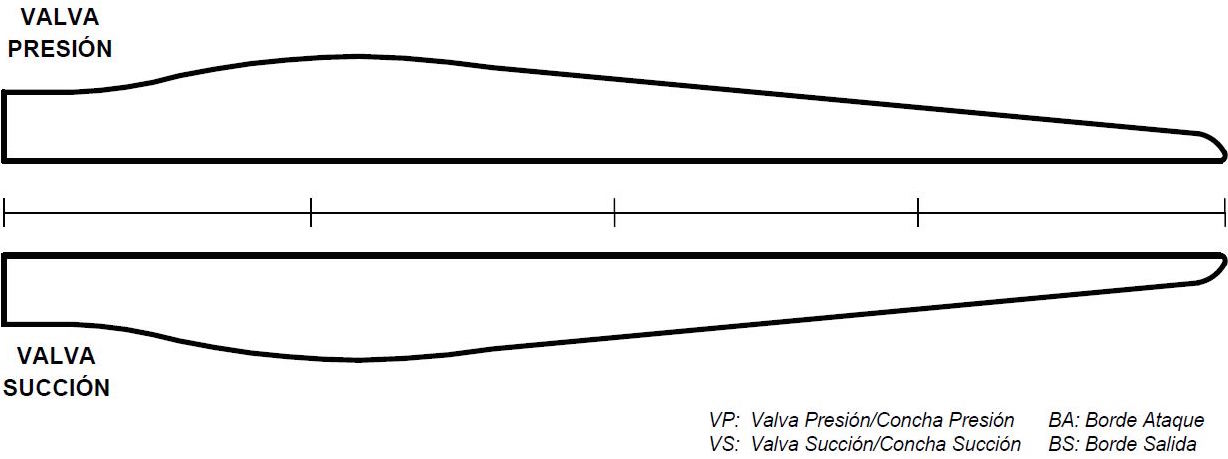
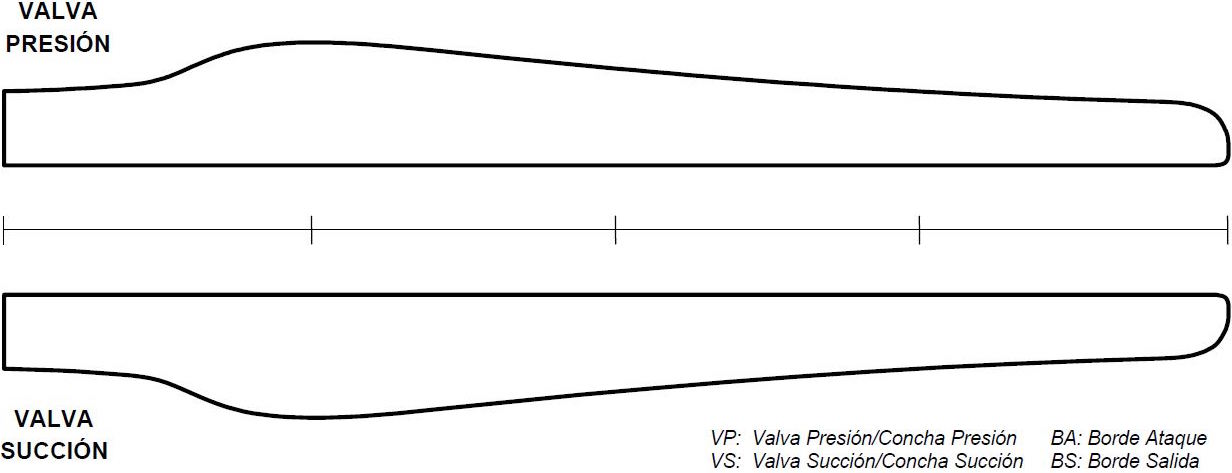
improve diagram damages drawing 1

diff --git a/src/AppBundle/Service/AuditPdfBuilderService.php b/src/AppBundle/Service/AuditPdfBuilderService.php
@@ -191,34 +191,34 @@ class AuditPdfBuilderService
             $x1 = $this->amdb->getX1();
             $y1 = $this->amdb->getY1();
             $x2 = $this->amdb->getX2();
-//            $y2 = $this->amdb->getY2();
+            $y2 = $this->amdb->getY2();
 //            $bladeGap = 40;
 //            $gap = $x2 - $x1;
 
             $pdf->Image($this->tha->getUrl('/bundles/app/images/blade_diagrams/blade_blueprint_1.jpg'), $x1, $y1, ($x2 - $x1), null);
 //            $pdf->Rect($x1, $y1, ($x2 - $x1), ($y2 - $y1));
 
-//            $xQuarter1 = $this->amdb->getXQ1();
+            $xQuarter1 = $this->amdb->getXQ1();
             $xQuarter2 = $this->amdb->getXQ2();
             $xQuarter3 = $this->amdb->getXQ3();
             $xQuarter4 = $this->amdb->getXQ4();
             $xQuarter5 = $this->amdb->getXQ5();
-//            $pdf->Line($xQuarter1, $y1, $xQuarter1, $y1 + ($y2 - $y1));
-//            $pdf->Line($xQuarter2, $y1, $xQuarter2, $y1 + ($y2 - $y1));
-//            $pdf->Line($xQuarter3, $y1, $xQuarter3, $y1 + ($y2 - $y1));
-//            $pdf->Line($xQuarter4, $y1, $xQuarter4, $y1 + ($y2 - $y1));
-//            $pdf->Line($xQuarter5, $y1, $xQuarter5, $y1 + ($y2 - $y1));
+            $pdf->Line($xQuarter1, $y1, $xQuarter1, $y1 + ($y2 - $y1));
+            $pdf->Line($xQuarter2, $y1, $xQuarter2, $y1 + ($y2 - $y1));
+            $pdf->Line($xQuarter3, $y1, $xQuarter3, $y1 + ($y2 - $y1));
+            $pdf->Line($xQuarter4, $y1, $xQuarter4, $y1 + ($y2 - $y1));
+            $pdf->Line($xQuarter5, $y1, $xQuarter5, $y1 + ($y2 - $y1));
 
             $yMiddle   = $this->amdb->getYMiddle();
-//            $yQuarter1 = $this->amdb->getYQ1();
-//            $yQuarter2 = $this->amdb->getYQ2();
-//            $yQuarter3 = $this->amdb->getYQ3();
-//            $yQuarter4 = $this->amdb->getYQ4();
-//            $pdf->Line($x1, $yQuarter1, $x2, $yQuarter1);
-//            $pdf->Line($x1, $yQuarter2, $x2, $yQuarter2);
-//            $pdf->Line($x1, $yMiddle,   $x2, $yMiddle);
-//            $pdf->Line($x1, $yQuarter3, $x2, $yQuarter3);
-//            $pdf->Line($x1, $yQuarter4, $x2, $yQuarter4);
+            $yQuarter1 = $this->amdb->getYQ1();
+            $yQuarter2 = $this->amdb->getYQ2();
+            $yQuarter3 = $this->amdb->getYQ3();
+            $yQuarter4 = $this->amdb->getYQ4();
+            $pdf->Line($x1, $yQuarter1, $x2, $yQuarter1);
+            $pdf->Line($x1, $yQuarter2, $x2, $yQuarter2);
+            $pdf->Line($x1, $yMiddle,   $x2, $yMiddle);
+            $pdf->Line($x1, $yQuarter3, $x2, $yQuarter3);
+            $pdf->Line($x1, $yQuarter4, $x2, $yQuarter4);
 
 //            $pdf->Rect($x1 + 3.5, $y1, ($x2 - $x1 - 4.5), ($y2 - $y1));
 //            $pdf->Rect($x1 + 44.5, $y1, ($x2 - $x1), ($y2 - $y1));
@@ -234,14 +234,17 @@ class AuditPdfBuilderService
             foreach ($bladeDamages as $sKey => $bladeDamage) {
                 // MultiCell($w, $h, $txt, $border=0, $align='J', $fill=0, $ln=1, $x='', $y='', $reseth=true, $stretch=0, $ishtml=false, $autopadding=true, $maxh=0)
                 $pdf->setBackgroundHexColor($bladeDamage->getDamageCategory()->getColour());
+                
                 if ($bladeDamage->getPosition() == BladeDamagePositionEnum::EDGE_IN) {
-                    // Both Valves {BA}
+                    // Both Valves {BA} · Double draw
                     $pdf->drawDamage($this->amdb->getGapX($bladeDamage), $this->amdb->getYQ2() - AuditModelDiagramBridgeService::GAP_SQUARE_SIZE, $this->amdb->getGapXSize($bladeDamage), $sKey + 1, $bladeDamage->getDamageCategory()->getColour());
                     $pdf->drawDamage($this->amdb->getGapX($bladeDamage), $this->amdb->getYQ3(), $this->amdb->getGapXSize($bladeDamage), $sKey + 1, $bladeDamage->getDamageCategory()->getColour());
+                    
                 } elseif ($bladeDamage->getPosition() == BladeDamagePositionEnum::EDGE_OUT) {
-                    // Both Valves {BS}
+                    // Both Valves {BS} · Double draw
                     $pdf->drawDamage($this->amdb->getGapX($bladeDamage), $this->amdb->getGapY($bladeDamage), $this->amdb->getGapXSize($bladeDamage), $sKey + 1, $bladeDamage->getDamageCategory()->getColour());
                     $pdf->drawDamage($this->amdb->getGapX($bladeDamage), $this->amdb->getGapY($bladeDamage, -1) - $this->amdb->getYScaleGap() - AuditModelDiagramBridgeService::GAP_SQUARE_HALF_SIZE , $this->amdb->getGapXSize($bladeDamage), $sKey + 1, $bladeDamage->getDamageCategory()->getColour());
+                    
                 } else {
                     // One valve {VP, VS}
                     $pdf->drawDamage($this->amdb->getGapX($bladeDamage), $this->amdb->getGapY($bladeDamage), $this->amdb->getGapXSize($bladeDamage), $sKey + 1, $bladeDamage->getDamageCategory()->getColour());

diff --git a/src/AppBundle/Service/AuditModelDiagramBridgeService.php b/src/AppBundle/Service/AuditModelDiagramBridgeService.php
@@ -18,7 +18,7 @@ use AppBundle\Pdf\CustomTcpdf;
 class AuditModelDiagramBridgeService
 {
     const PDF_TOTAL_WIDHT      = 210;
-    const DIAGRAM_HEIGHT       = 55;
+    const DIAGRAM_HEIGHT       = 60;
     const GAP_SQUARE_SIZE      = 5;
     const GAP_SQUARE_HALF_SIZE = 2.5;
 
@@ -122,8 +122,8 @@ class AuditModelDiagramBridgeService
     {
         $this->x1 = CustomTcpdf::PDF_MARGIN_LEFT;
         $this->x2 = self::PDF_TOTAL_WIDHT - CustomTcpdf::PDF_MARGIN_RIGHT;
-        $this->xQ1 = $this->x1 + 0.25;
-        $this->xQ5 = $this->x2 - 0.25;
+        $this->xQ1 = $this->x1 + 0.5;
+        $this->xQ5 = $this->x2 - 0.5;
         $this->xScaleGap = $this->xQ5 - $this->xQ1;
         $this->xQ2 = $this->xQ1 + ($this->xScaleGap / 4);
         $this->xQ3 = $this->xQ2 + ($this->xScaleGap / 4);
@@ -139,10 +139,10 @@ class AuditModelDiagramBridgeService
     {
         $this->y1 = $y;
         $this->y2 = $y + self::DIAGRAM_HEIGHT;
-        $this->yQ1 = $this->y1 + 7.25;
-        $this->yQ2 = $this->yQ1 + 14.75;
-        $this->yQ3 = $this->yQ2 + 12;
-        $this->yQ4 = $this->yQ3 + 15;
+        $this->yQ1 = $this->y1  + 5.5;
+        $this->yQ2 = $this->yQ1 + 17;
+        $this->yQ3 = $this->yQ2 + 16.75;
+        $this->yQ4 = $this->yQ3 + 17;
         $this->yMiddle = $this->yQ2 + (($this->yQ3 - $this->yQ2) / 2) + 0.75;
         $this->yScaleGap = $this->yQ2 - $this->yQ1;
 
@@ -199,7 +199,7 @@ class AuditModelDiagramBridgeService
      */
     public function getGapX(BladeDamage $bladeDamage)
     {
-        return $this->xQ1 + (($bladeDamage->getRadius() * $this->xScaleGap) / $bladeDamage->getAuditWindmillBlade()->getWindmillBlade()->getWindmill()->getBladeType()->getLength());
+        return $this->xQ1 + (($bladeDamage->getRadius() * $this->xScaleGap) / $bladeDamage->getAuditWindmillBlade()->getWindmillBlade()->getWindmill()->getBladeType()->getLength()) - self::GAP_SQUARE_HALF_SIZE;
     }
 
     /**

diff --git a/src/AppBundle/Pdf/CustomTcpdf.php b/src/AppBundle/Pdf/CustomTcpdf.php
@@ -234,7 +234,7 @@ class CustomTcpdf extends \TCPDF
     {
         $this->setBackgroundHexColor($hexColor);
         $this->Rect($x, $y, $w, 5, 'DF', array('all' => array('width' => 0.25, 'cap' => 'butt', 'join' => 'miter', 'dash' => 0, 'color' => array(0, 0, 0))));
-        $this->MultiCell($w, 5, $txt, 1, 'C', 1, 0, $x, $y - 0.25, true);
+        $this->MultiCell($w, 5, $txt, 0, 'C', false, 0, $x, $y - 0.25, true);
     }
 
     /**
